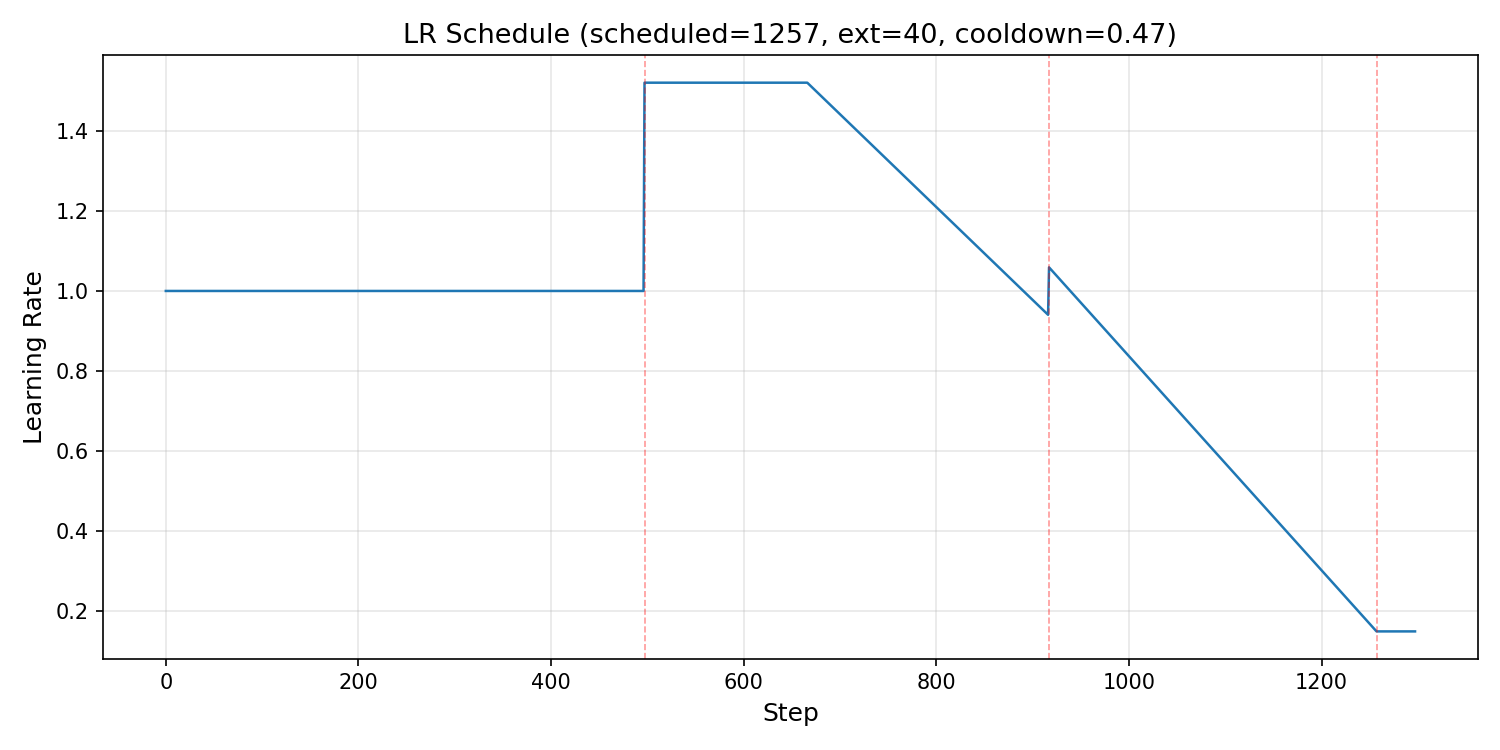
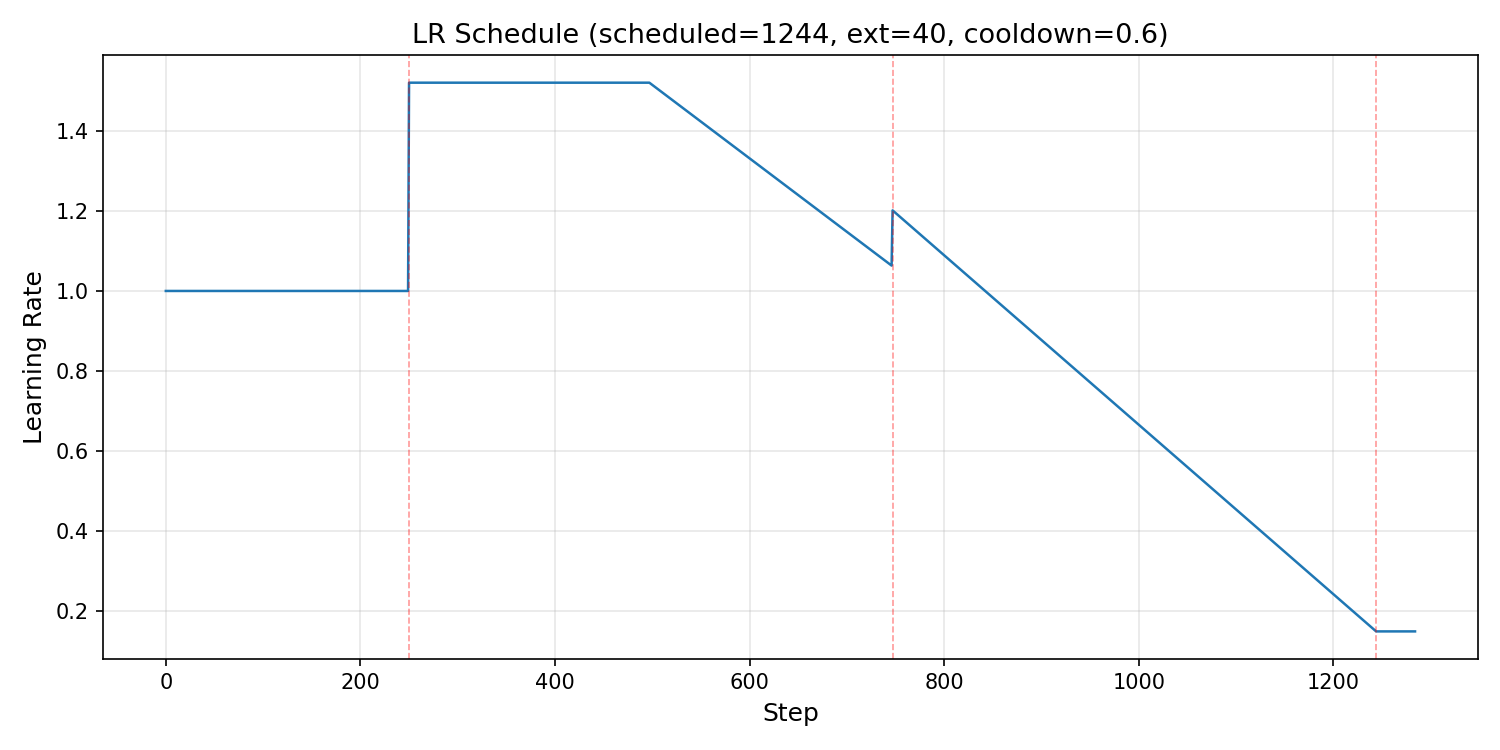
normal, half w0 cut

diff --git a/src/s07_schedule.py b/src/s07_schedule.py
@@ -20,8 +20,8 @@ class Hyperparameters:
     # batch sizes
     val_batch_size: int = 4 * 64 * 1024 * 8
     # schedule
-    num_scheduled_iterations: int = 1257  # number of steps to complete lr and ws schedule
-    num_extension_iterations: int = 200  # number of steps to continue training at final lr and ws
+    num_scheduled_iterations: int = 1244  # number of steps to complete lr and ws schedule
+    num_extension_iterations: int = 300  # number of steps to continue training at final lr and ws
     # evaluation and logging
     run_id: str = f"{uuid.uuid4()}"
     val_loss_every: int = 50  # every how many steps to evaluate val loss? 0 for only at the end
@@ -121,11 +121,11 @@ class TrainingSchedule:
 
 # window_sizes are in units of `block_size` tokens (defined in TrainingManager)
 TRAINING_STAGES = [
-    TrainingStage(duration=0.395386, train_max_seq_len=896, batch_size=8 * 2048 * 8, window_sizes=(1, 3), lr_mul=1.0,
+    TrainingStage(duration=0.200965, train_max_seq_len=896, batch_size=8 * 2048 * 8, window_sizes=(1, 3), lr_mul=1.0,
                   mtp_weights_start=[1.0, 0.5, 0.25], mtp_weights_end=[1.0, 0.5, 0.0]),
-    TrainingStage(duration=0.334129, train_max_seq_len=2048, batch_size=16 * 2048 * 8, window_sizes=(3, 7), lr_mul=1.52,  # (16/8)**0.6
+    TrainingStage(duration=0.399518, train_max_seq_len=2048, batch_size=16 * 2048 * 8, window_sizes=(3, 7), lr_mul=1.52,  # (16/8)**0.6
                   mtp_weights_start=[1.0, 0.5], mtp_weights_end=[1.0, 0.0]),
-    TrainingStage(duration=0.270485, train_max_seq_len=2048, batch_size=24 * 2048 * 8, window_sizes=(5, 11), lr_mul=1.73, lr_floor=0.15,  # (24/8)**0.5
+    TrainingStage(duration=0.399518, train_max_seq_len=2048, batch_size=24 * 2048 * 8, window_sizes=(5, 11), lr_mul=1.73, lr_floor=0.15,  # (24/8)**0.5
                   mtp_weights_start=[1.0], mtp_weights_end=[1.0]),
     # extension stage
     TrainingStage(train_max_seq_len=2048, batch_size=24 * 2048 * 8, window_sizes=(6, 13), lr_mul=0.15, lr_floor=0.15,

diff --git a/utils/plot_lr_schedule.py b/utils/plot_lr_schedule.py
@@ -33,7 +33,7 @@ def compute_schedule_from_steps(stage_steps: list[int]) -> tuple[int, list[float
 
 
 # Define stage steps and compute schedule
-STAGE_STEPS = [497, 420, 340]
+STAGE_STEPS = [250, 497, 497]
 SCHEDULED_ITERATIONS, durations = compute_schedule_from_steps(STAGE_STEPS)
 
 # Mirror the stages from s07_schedule.py
@@ -44,7 +44,7 @@ STAGES = [
     Stage(duration=None, lr_mul=0.15, lr_floor=0.15),  # extension
 ]
 EXTENSION_ITERATIONS = 40
-COOLDOWN_FRAC = 0.47
+COOLDOWN_FRAC = 0.60
 
 TOTAL_STEPS = SCHEDULED_ITERATIONS + EXTENSION_ITERATIONS
 ends = [0] + [round(c * SCHEDULED_ITERATIONS) for c in accumulate(s.duration for s in STAGES[:-1])] + [TOTAL_STEPS]
